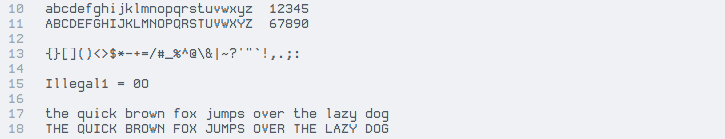
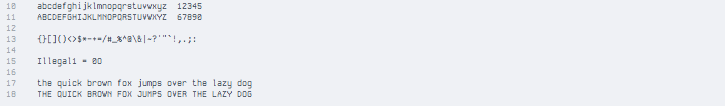
updated Dina font images

diff --git a/fonts/dina/README.md b/fonts/dina/README.md
@@ -1,1 +1,1 @@
-Gallery image was rendered at 16pt in Sublime Text (OS X) without antialiasing
+Gallery image was rendered at 10pt in Sublime Text (OS X) without antialiasing
